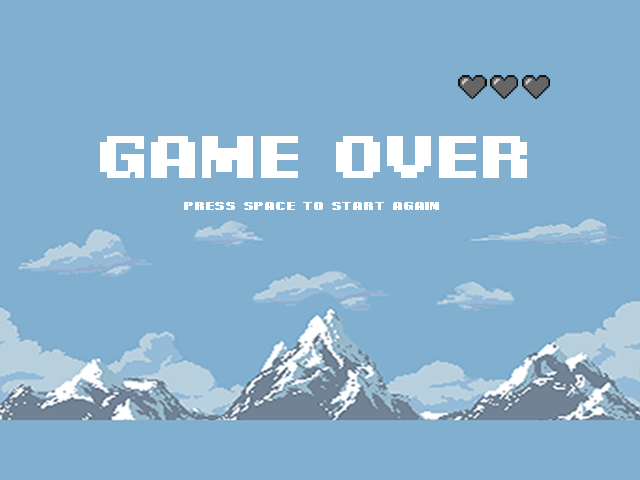
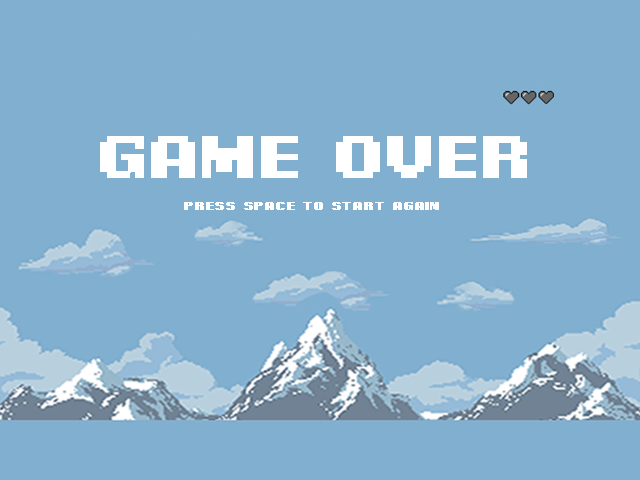
hearts uwu

Changed region(s): [[0.7188, 0.1562, 0.875, 0.2188]]

diff --git a/Game/Source/Player.cpp b/Game/Source/Player.cpp
@@ -108,9 +108,14 @@ bool Player::Awake(pugi::xml_node&)
 	rightShoot.speed = 0.1f;
 
 	//snowball animation
-	snowballAnim.PushBack({203, 44, 5, 5});
-	snowballAnim.PushBack({216, 44, 5, 5});
-	snowballAnim.speed = 0.5f;
+	snowballAnim.PushBack({203, 44, 6, 6});
+	snowballAnim.PushBack({219, 44, 6, 6});
+	snowballAnim.speed = 0.1f;
+
+	//red heart animation
+	redHeart.PushBack({ 0, 0, 34, 29 });
+	redHeart.PushBack({ 34, 0, 34, 29 });
+	redHeart.speed = 0.03f;
 
 	return true;
 }
@@ -120,19 +125,25 @@ bool Player::Start()
 {
 	LOG("Loading player textures");
 	playerTexture = app->tex->Load("Assets/Characters/penguin_sprites.png");
+	redHeartTexture = app->tex->Load("Assets/GUI/red_heart.png");
+	grayHeartTexture = app->tex->Load("Assets/GUI/gray_heart.png");
+	
 	currentAnimation = &rightIdle;
 	currentSnowballAnimation = &blankAnim;
+	currentHeart1 = &redHeart;
+	currentHeart2 = &redHeart;
+	currentHeart3 = &redHeart;
 
 	playerPos = {100,1000};
-	snowballPos = { 100,1000 };
 
+	lifeCount = 3;
 	godMode = false;
 	isDead = false;
 	isJumping = false;
 
 	//Collider
 	playerCollider = app->collisions->AddCollider({playerPos.x, playerPos.y, 22, 25}, Collider::Type::PLAYER, this);
-	snowballCollider = app->collisions->AddCollider({snowballPos.x, snowballPos.y, 5, 5}, Collider::Type::SNOWBALL, this);
+	snowballCollider = app->collisions->AddCollider({snowballPos.x, snowballPos.y, 6, 6}, Collider::Type::SNOWBALL, this);
 
 	//Audios
 	walkingFx = app->audio->LoadFx("Assets/Audio/Fx/walking_fx.wav");
@@ -177,20 +188,35 @@ bool Player::Update(float dt)
 		{
 			if (app->input->GetKey(SDL_SCANCODE_RETURN) == KEY_DOWN)
 			{
-				//isShooting = true;
+				isShooting = false;
+				shootRight = false;
+				shootLeft = false;
+				snowballPos = playerPos;
+
 				if (currentAnimation == &rightIdle || currentAnimation == &rightWalk || currentAnimation == &rightJump)
 				{
 					currentAnimation = &rightShoot;
-					currentSnowballAnimation = &snowballAnim;
-					snowballPos.x += 5;
 				}
 				if (currentAnimation == &leftIdle || currentAnimation == &leftWalk || currentAnimation == &leftJump)
 				{
 					currentAnimation = &leftShoot;
-					currentSnowballAnimation = &snowballAnim;
-					snowballPos.x -= 5;
 				}
+				isShooting = true;
 			}
+
+			if (timerShoot % 65 == 0)
+			{
+				if (currentAnimation == &rightShoot)
+				{
+					currentAnimation = &rightIdle;
+				}
+				if (currentAnimation == &leftShoot)
+				{
+					currentAnimation = &leftIdle;
+				}
+				currentSnowballAnimation = &snowballAnim;
+			}
+
 
 			if (app->input->GetKey(SDL_SCANCODE_A) == KEY_REPEAT && app->input->GetKey(SDL_SCANCODE_D) == KEY_REPEAT)
 			{
@@ -264,20 +290,33 @@ bool Player::Update(float dt)
 		{
 			if (app->input->GetKey(SDL_SCANCODE_RETURN) == KEY_DOWN)
 			{
-				//isShooting = true;
+				isShooting = false;
+				shootRight = false;
+				shootLeft = false;
+				snowballPos = playerPos;
+			
 				if (currentAnimation == &rightIdle || currentAnimation == &rightWalk || currentAnimation == &rightJump)
 				{
 					currentAnimation = &rightShoot;
-					currentSnowballAnimation = &snowballAnim;
-					snowballPos.x += 5;
 				}
 				if (currentAnimation == &leftIdle || currentAnimation == &leftWalk || currentAnimation == &leftJump)
 				{
 					currentAnimation = &leftShoot;
-					currentSnowballAnimation = &snowballAnim;
-					snowballPos.x -= 5;
 				}
-				timerShoot++;
+				isShooting = true;
+			}
+
+			if (timerShoot % 65 == 0)
+			{
+				if (currentAnimation == &rightShoot)
+				{
+					currentAnimation = &rightIdle;
+				}
+				if (currentAnimation == &leftShoot)
+				{
+					currentAnimation = &leftIdle;
+				}
+				currentSnowballAnimation = &snowballAnim;
 			}
 
 			if ((app->input->GetKey(SDL_SCANCODE_W) == KEY_DOWN || app->input->GetKey(SDL_SCANCODE_SPACE) == KEY_DOWN) && (app->input->GetKey(SDL_SCANCODE_A) == KEY_REPEAT || app->input->GetKey(SDL_SCANCODE_D) == KEY_REPEAT))
@@ -534,7 +573,6 @@ bool Player::Update(float dt)
 			if (lifeCount == 0)
 			{
 				currentAnimation = &blankAnim;
-				lifeCount = 3;
 				app->fadeScreen->active = true;
 				app->fadeScreen->FadeToBlack(this, (Module*)app->deathScreen, 100.0f);
 				timer = 0;
@@ -549,15 +587,40 @@ bool Player::Update(float dt)
 			}
 			isDead = false;
 		}
+	}
 
+	if (isShooting == true)
+	{
+		if (currentAnimation == &rightIdle || currentAnimation == &rightWalk || currentAnimation == &rightJump)
+		{
+			shootRight = true;
+		}
+		if (currentAnimation == &leftIdle || currentAnimation == &leftWalk || currentAnimation == &leftJump)
+		{
+			shootLeft = true;
+		}
+	}
 
+	if (shootRight)
+	{
+		snowballPos.x += 5;
+		isShooting = false;
+	}
+	if (shootLeft)
+	{
+		isShooting = false;
+		snowballPos.x -= 5;
 	}
 
 	//ppx = playerPos.x;
 	//ppy = playerPos.y;
+	timerShoot++;
 
 	currentAnimation->Update();
 	currentSnowballAnimation->Update();
+	currentHeart1->Update();
+	currentHeart2->Update();
+	currentHeart3->Update();
 
 	playerCollider->SetPos(playerPos.x, playerPos.y);
 	snowballCollider->SetPos(snowballPos.x, snowballPos.y);
@@ -569,6 +632,43 @@ bool Player::Update(float dt)
 	//Drawing the snowball
 	SDL_Rect rect2 = currentSnowballAnimation->GetCurrentFrame();
 	app->render->DrawTexture(playerTexture, snowballPos.x, snowballPos.y, &rect2);
+
+	//Drawing the hearts
+	SDL_Rect grayRect = { 0, 0, 34, 29 };
+
+	if (lifeCount == 3)
+	{
+		SDL_Rect rect3 = currentHeart1->GetCurrentFrame();
+		app->render->DrawTexture(redHeartTexture, -(app->render->camera.x - 1000), app->render->camera.y + 1050, &rect3);
+
+		SDL_Rect rect4 = currentHeart2->GetCurrentFrame();
+		app->render->DrawTexture(redHeartTexture, -(app->render->camera.x - 1035), app->render->camera.y + 1050, &rect4);
+
+		SDL_Rect rect5 = currentHeart3->GetCurrentFrame();
+		app->render->DrawTexture(redHeartTexture, -(app->render->camera.x - 1070), app->render->camera.y + 1050, &rect5);
+	}
+
+	if (lifeCount == 2)
+	{
+		app->render->DrawTexture(grayHeartTexture, -(app->render->camera.x - 1000), app->render->camera.y + 1050, &grayRect);
+
+		SDL_Rect rect4 = currentHeart2->GetCurrentFrame();
+		app->render->DrawTexture(redHeartTexture, -(app->render->camera.x - 1035), app->render->camera.y + 1050, &rect4);
+
+		SDL_Rect rect5 = currentHeart3->GetCurrentFrame();
+		app->render->DrawTexture(redHeartTexture, -(app->render->camera.x - 1070), app->render->camera.y + 1050, &rect5);
+	}
+
+	if (lifeCount == 1)
+	{
+		app->render->DrawTexture(grayHeartTexture, -(app->render->camera.x - 1000), app->render->camera.y + 1050, &grayRect);
+
+		app->render->DrawTexture(grayHeartTexture, -(app->render->camera.x - 1035), app->render->camera.y + 1050, &grayRect);
+
+		SDL_Rect rect5 = currentHeart3->GetCurrentFrame();
+		app->render->DrawTexture(redHeartTexture, -(app->render->camera.x - 1070), app->render->camera.y + 1050, &rect5);
+	}
+
 
 	return true;
 }

diff --git a/Game/Source/Player.h b/Game/Source/Player.h
@@ -41,14 +41,21 @@ public:
 	SDL_Texture* playerTexture;
 	SDL_Rect playerRect = {9,7,22,25};
 
+	SDL_Texture* redHeartTexture;
+	SDL_Texture* grayHeartTexture;
+
 	iPoint playerPos;
 	iPoint snowballPos;
+
 
 private:
 
 	//list of animations
 	Animation* currentAnimation = &rightIdle;
 	Animation* currentSnowballAnimation = &blankAnim;
+	Animation* currentHeart1 = &redHeart;
+	Animation* currentHeart2 = &redHeart;
+	Animation* currentHeart3 = &redHeart;
 	Animation blankAnim;
 	Animation rightIdle;
 	Animation leftIdle;
@@ -61,6 +68,7 @@ private:
 	Animation rightShoot;
 	Animation leftShoot;
 	Animation snowballAnim;
+	Animation redHeart;
 	
 	fPoint speed;
 	Physics playerPhysics;
@@ -82,6 +90,8 @@ private:
 	bool godMode;
 	bool isFalling = false;
 	bool isShooting = false;
+	bool shootRight = false;
+	bool shootLeft = false;
 
 	int timer = 0;
 	int timerShoot = 0;

diff --git a/Game/Source/Collisions.cpp b/Game/Source/Collisions.cpp
@@ -162,8 +162,8 @@ void Collisions::DrawCollider()
 		case Collider::Type::ENEMY: // Purple
 			app->render->DrawRectangle(colliders[i]->rect, 255, 0, 255, alpha);
 			break;
-		case Collider::Type::SNOWBALL: //Who knows
-			app->render->DrawRectangle(colliders[i]->rect, 255, 255, 10, alpha);
+		case Collider::Type::SNOWBALL: // Red
+			app->render->DrawRectangle(colliders[i]->rect, 255, 0, 0, alpha);
 			break;
 		}
 	}

diff --git a/Game/Source/App.cpp b/Game/Source/App.cpp
@@ -58,7 +58,7 @@ App::App(int argc, char* args[]) : argc(argc), args(args)
 	AddModule(enemies);
 	AddModule(player);
 	AddModule(collisions);
-	//AddModule(deathScreen);
+	AddModule(deathScreen);
 	//AddModule(winScreen);
 
 	// Render last to swap buffer
